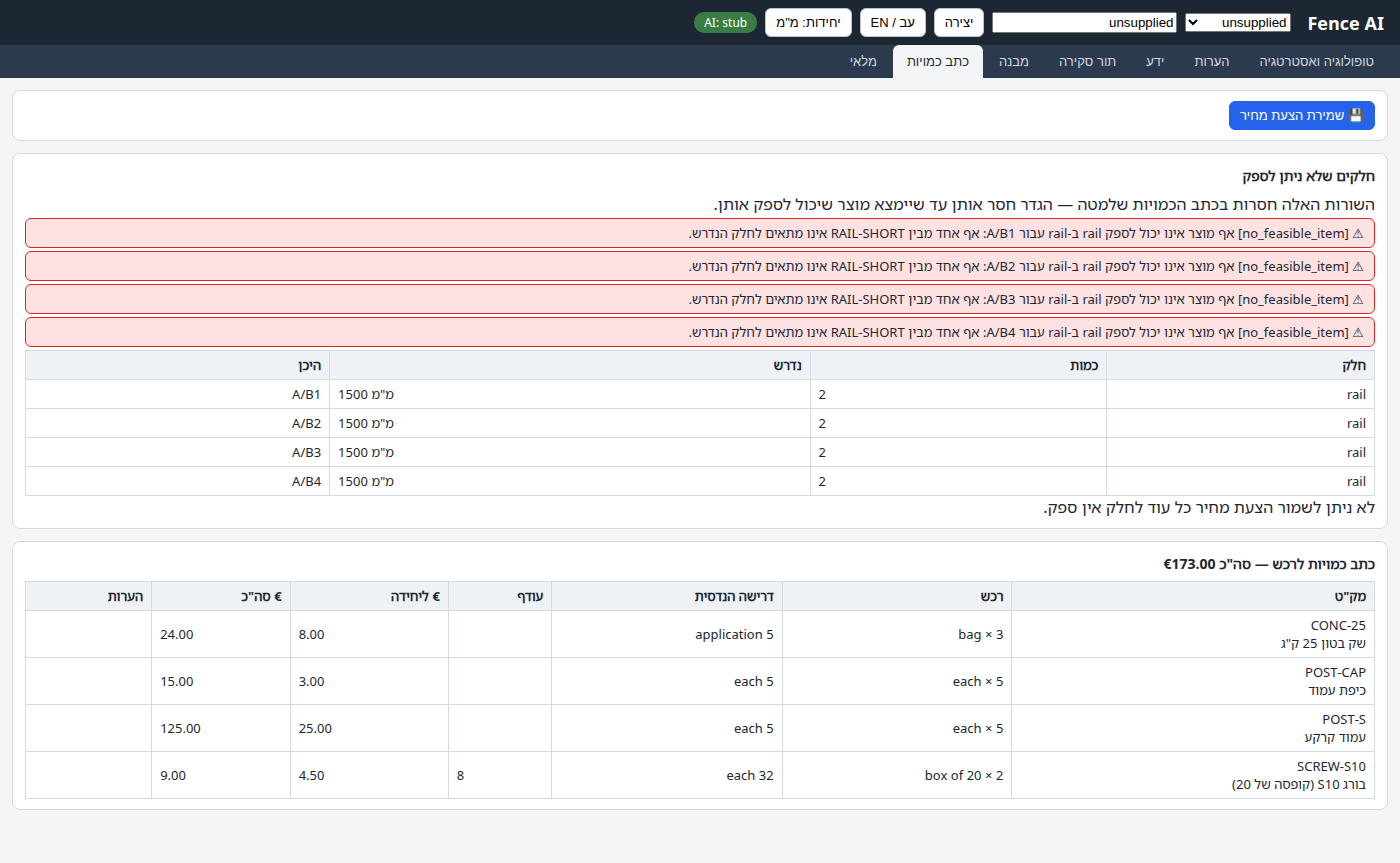
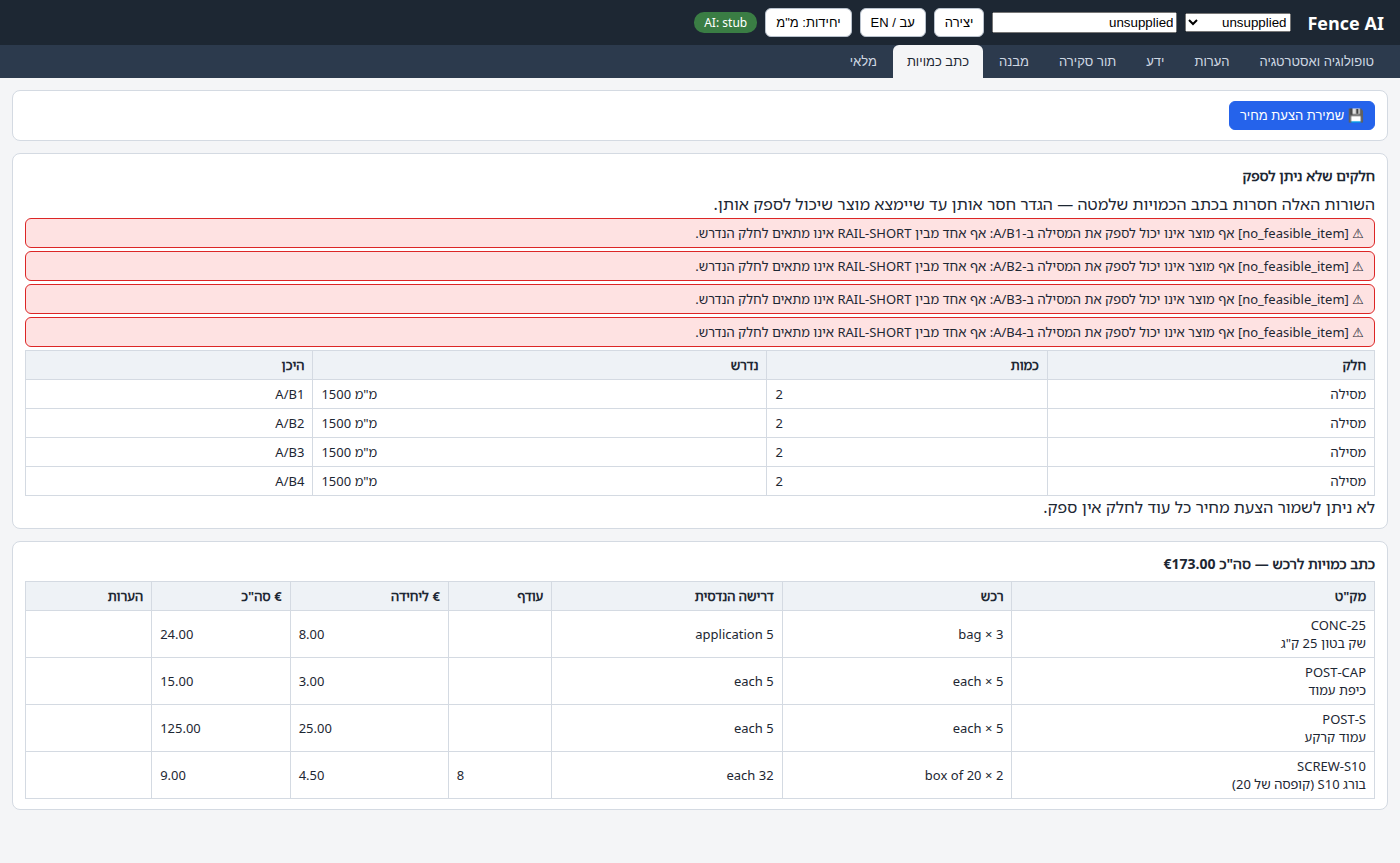
test(smoke): scope the supply checks to the panel that is supposed to prove them
"A/B1" in the whole #structure-body found the tag in the ordinary BAYS table,
which prints it in its own first column — so the one check written to prove the
warnings name the bay could not fail. A reviewer removed supplyProblemsHtml from
structure.js and it still passed, while its sibling correctly failed.

Every assertion in the block now reads the `.supply-problems` panel by class, and
the bay-naming one reads the warning ROWS inside it. Re-verified by the same
deletion: 103/107, with four failures including the one that used to pass.

Two more checks: the role reads as a Hebrew word, and the customer sheet still
SAYS a part cannot be supplied. The first version of the customer check asserted
an absent screw — vacuous for the same reason, since nothing reachable from the
UI makes a consumable unsuppliable, so it would have passed with the filter
deleted. That half is covered in node instead, and the comment here says why
rather than leaving the next reader to rediscover it.

107/107.

diff --git a/tools/ui_smoke.py b/tools/ui_smoke.py
@@ -1165,21 +1165,60 @@ fetch(`/api/projects/${document.getElementById('project-select').value}`)
         time.sleep(3)
         c.js("document.querySelector('#tabs button[data-tab=\"bom\"]').click(); 'ok'")
         time.sleep(2)
-        bom_text = c.js("document.getElementById('bom-body').textContent") or ""
+        # EVERY assertion below reads the supply-problems PANEL, never the page.
+        # The first version of the bay-naming check read `#structure-body` whole
+        # and passed with the panel deleted, because the ordinary bays table
+        # prints "A/B1" too — a check that proved the feature was there by
+        # finding something else.
+        bom_panel = c.js(
+            "document.querySelector('#bom-body .supply-problems')?.textContent || ''")
         check("the BOM tab names the part it cannot supply, localized",
-              "no_feasible_item" in bom_text and "RAIL-SHORT" in bom_text
-              and "לספק" in bom_text)
+              "no_feasible_item" in bom_panel and "RAIL-SHORT" in bom_panel
+              and "לספק" in bom_panel)
         check("the BOM tab still prices what it CAN supply beside the gap",
               (c.js("document.querySelectorAll('#bom-body table').length") or 0) >= 2)
         c.shot("15-bom-unsupplied.png")
         c.js("document.querySelector('#tabs button[data-tab=\"structure\"]').click(); 'ok'")
         time.sleep(2)
         struct_text = c.js("document.getElementById('structure-body').textContent") or ""
+        struct_panel = c.js(
+            "document.querySelector('#structure-body .supply-problems')?.textContent || ''")
         check("the structure sheet says the bay cannot be supplied, not 'generate a strategy'",
-              "לספק" in struct_text and "חשבו אסטרטגיה" not in struct_text)
-        check("the supply warning names the BAY, not a raw element id",
-              "A/B1" in struct_text and "span@run" not in struct_text)
+              "לספק" in struct_panel and "חשבו אסטרטגיה" not in struct_text)
+        warning_rows = c.js("""
+[...document.querySelectorAll('#structure-body .supply-problems .warning')]
+  .map(n => n.textContent).join(' | ')""") or ""
+        check("the supply WARNING ROW names the bay, not a raw element id",
+              "A/B1" in warning_rows and "span@run" not in warning_rows)
+        check("the warning row reads the role as a word, not a raw English id",
+              "מסילה" in warning_rows and " rail" not in warning_rows)
         c.shot("16-structure-unsupplied.png")
+
+        # The customer sheet must still SAY a part cannot be supplied. That it
+        # describes rather than itemises an unsuppliable CONSUMABLE cannot be
+        # checked from here — no UI path makes a screw or concrete unsuppliable
+        # (fixings carry no cut length, so the feasibility gate never rejects
+        # one), and a check for an absent screw would pass with the filter
+        # deleted. tests/web/test_supply_panel_module.py covers that half in node.
+        c.js("""
+{
+  const sel = document.getElementById('structure-detail');
+  sel.value = 'customer'; sel.dispatchEvent(new Event('change'));
+}
+'ok'""")
+        time.sleep(1)
+        customer_panel = c.js(
+            "document.querySelector('#structure-body .supply-problems')?.textContent || ''")
+        check("the customer sheet still says a part cannot be supplied",
+              "לספק" in customer_panel and "A/B1" in customer_panel)
+        c.shot("17-structure-customer-unsupplied.png")
+        c.js("""
+{
+  const sel = document.getElementById('structure-detail');
+  sel.value = 'installer'; sel.dispatchEvent(new Event('change'));
+}
+'ok'""")
+        time.sleep(0.5)
         c.js("document.querySelector('#tabs button[data-tab=\"canvas\"]').click(); 'ok'")
         time.sleep(0.5)
 
